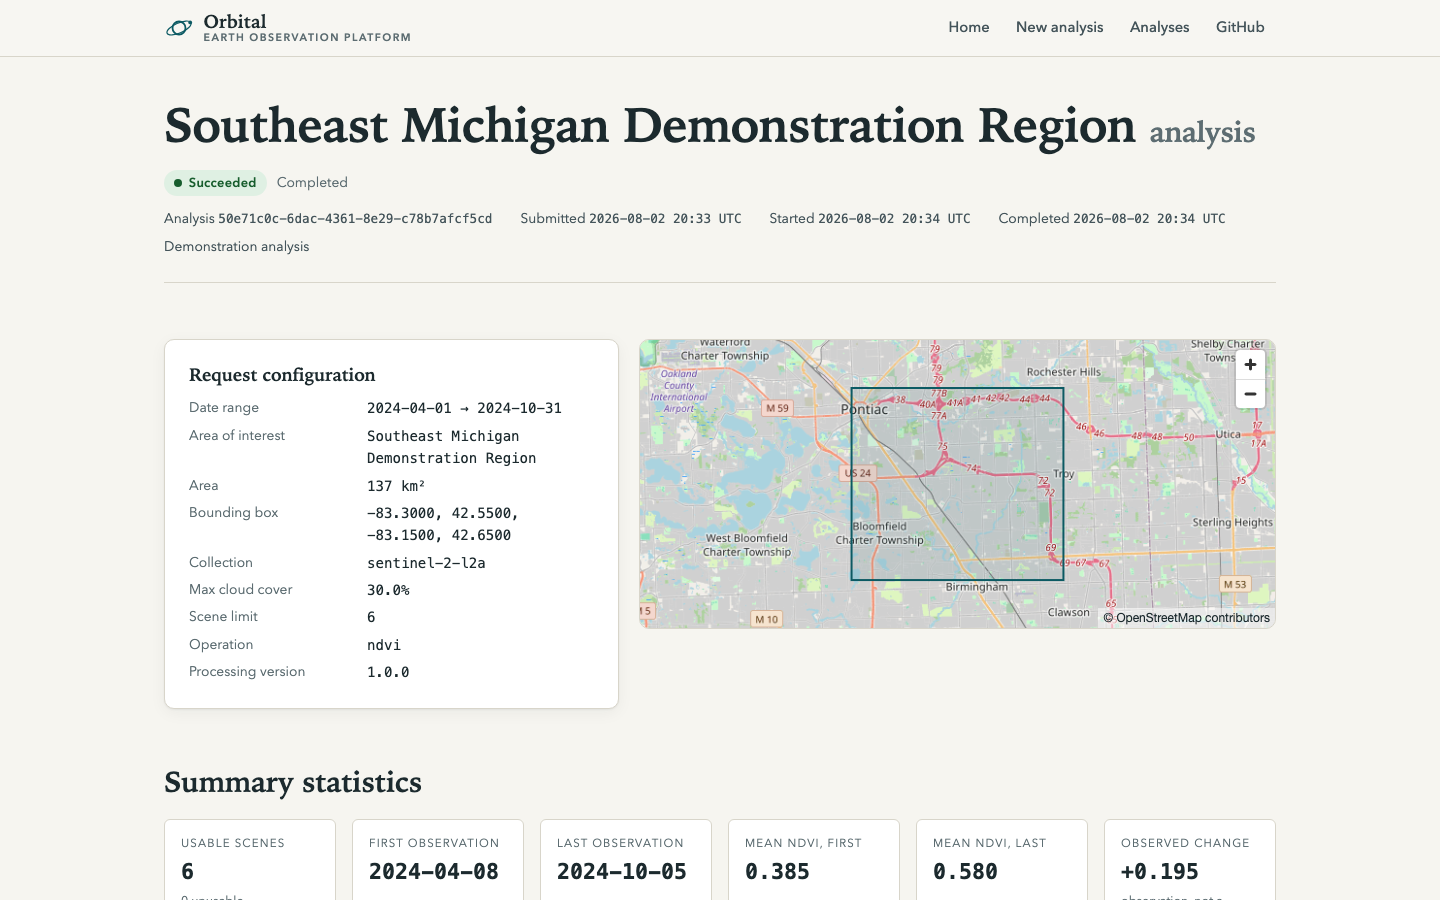
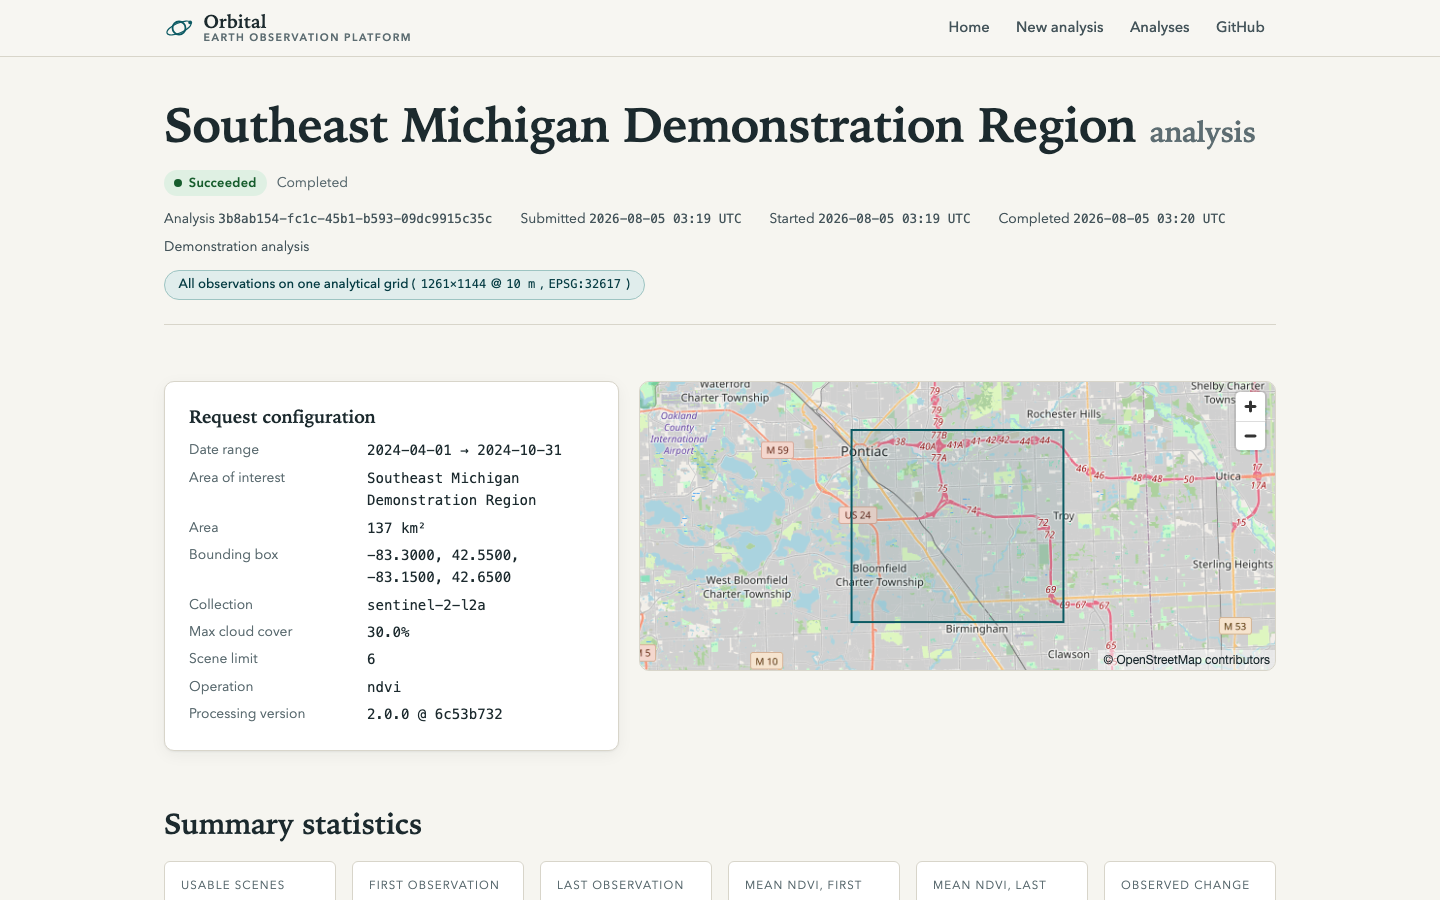
Keep synthetic satellite data out of deployed images; refresh screenshots
An audit of what actually ships found earth_observation.testing -- the
synthetic Sentinel-2 raster generator -- inside the deployed API and worker
images. No production code path imported it, but its presence contradicted the
rule that synthetic imagery is for automated tests only.

The module is now excluded from the built wheel. Container images install that
wheel (uv sync --no-editable) so it is physically absent from them, while
tests and local development use the editable install and import it from src/,
unaffected. Verified against real artifacts rather than config: the wheel
contains 18 modules and no testing.py, a rebuilt image confirms the same, and
the new CI guard was sanity-checked against the pre-fix image where it
correctly reports the violation.

Three layers enforce this: the wheel exclusion, tests that build the wheel and
inspect it (also grepping production sources for fixture imports and copied
builders), and a CI step that inspects the built images.

Also confirmed clean during the audit: no test fixtures in the Next.js
production bundle, no mock or fallback data anywhere in shipped frontend code,
and data/ (the committed demo bundle) is never copied into an image -- deployed
environments process live imagery via seed-demo.

README screenshots regenerated from the deployed Azure site.

Claude-Session: https://claude.ai/code/session_01LvJH3amry1uS9pqAgbjr28

diff --git a/tests/test_no_synthetic_data_in_production.py b/tests/test_no_synthetic_data_in_production.py
@@ -1,0 +1,136 @@
+"""Assert that synthetic satellite data cannot reach a deployed environment.
+
+The platform's rule is that synthetic imagery is permitted in automated tests
+ONLY — never in the running application. ``earth_observation.testing``
+generates fake Sentinel-2-like rasters, so it must not be present in the
+artifacts that get deployed.
+
+Enforcement has three layers:
+
+1. The wheel excludes ``testing.py`` (``packages/earth_observation/pyproject.toml``).
+   Container images build with ``uv sync --no-editable``, so they install that
+   wheel and the module is physically absent from them.
+2. These tests assert the exclusion is configured and that no production module
+   imports the fixtures.
+3. The CI ``docker`` job greps the built images (see ``.github/workflows/ci.yml``).
+
+Tests import the module straight from ``src/`` via the editable dev install, so
+excluding it from the wheel costs the test suite nothing.
+"""
+
+from __future__ import annotations
+
+import ast
+import glob
+import shutil
+import subprocess
+import tempfile
+import tomllib
+import zipfile
+from pathlib import Path
+
+import pytest
+
+REPO_ROOT = Path(__file__).resolve().parents[1]
+SCIENCE_PKG = REPO_ROOT / "packages" / "earth_observation"
+
+#: Modules that ship to production. Anything importable here must be real.
+PRODUCTION_SOURCE_DIRS = [
+    SCIENCE_PKG / "src",
+    REPO_ROOT / "packages" / "platform_core" / "src",
+    REPO_ROOT / "apps" / "api" / "src",
+    REPO_ROOT / "apps" / "worker" / "src",
+]
+
+#: Names that only ever belong to synthetic-fixture code.
+SYNTHETIC_SYMBOLS = (
+    "build_synthetic_scene",
+    "build_adjacent_granules",
+    "make_file_candidate",
+    "make_metadata_candidate",
+    "write_raster",
+)
+
+
+def test_wheel_excludes_the_synthetic_data_module() -> None:
+    """The build config must exclude the fixture generator from the wheel."""
+    config = tomllib.loads((SCIENCE_PKG / "pyproject.toml").read_text())
+    excluded = config["tool"]["hatch"]["build"]["targets"]["wheel"].get("exclude", [])
+    assert "src/earth_observation/testing.py" in excluded, (
+        "earth_observation.testing generates synthetic satellite rasters and must "
+        "be excluded from the wheel so it never ships to a deployed environment."
+    )
+
+
+def test_built_wheel_contains_no_synthetic_data_module() -> None:
+    """Actually build the wheel and inspect it — config can lie, artifacts cannot."""
+    uv = shutil.which("uv")
+    if uv is None:
+        pytest.skip("uv is not on PATH; the wheel-content check needs it")
+    with tempfile.TemporaryDirectory() as out:
+        result = subprocess.run(
+            [uv, "build", "--package", "earth-observation", "--wheel", "--out-dir", out],
+            cwd=REPO_ROOT,
+            capture_output=True,
+            text=True,
+            check=False,  # handled below so the failure message is useful
+        )
+        if result.returncode != 0:
+            pytest.fail(f"uv build failed:\n{result.stderr[-500:]}")
+        wheels = glob.glob(f"{out}/*.whl")
+        assert wheels, "no wheel produced"
+        names = zipfile.ZipFile(wheels[0]).namelist()
+    offenders = [n for n in names if "testing" in n]
+    assert not offenders, f"Synthetic-data module leaked into the distributable wheel: {offenders}"
+
+
+def _iter_production_modules():
+    for root in PRODUCTION_SOURCE_DIRS:
+        for path in root.rglob("*.py"):
+            if path.name == "testing.py":
+                continue  # the fixture module itself, excluded from the wheel
+            yield path
+
+
+def test_no_production_module_imports_the_fixtures() -> None:
+    """A production import of the fixtures would defeat the wheel exclusion."""
+    offenders: list[str] = []
+    for path in _iter_production_modules():
+        tree = ast.parse(path.read_text(), filename=str(path))
+        for node in ast.walk(tree):
+            if isinstance(node, ast.ImportFrom) and node.module:
+                if node.module.endswith("earth_observation.testing"):
+                    offenders.append(f"{path.relative_to(REPO_ROOT)}: {node.module}")
+            elif isinstance(node, ast.Import):
+                for alias in node.names:
+                    if alias.name.endswith("earth_observation.testing"):
+                        offenders.append(f"{path.relative_to(REPO_ROOT)}: {alias.name}")
+    assert not offenders, "Production code imports synthetic fixtures: " + ", ".join(offenders)
+
+
+def test_no_production_module_references_synthetic_builders() -> None:
+    """Catch a copy-pasted fixture builder even without the import."""
+    offenders: list[str] = []
+    for path in _iter_production_modules():
+        text = path.read_text()
+        for symbol in SYNTHETIC_SYMBOLS:
+            if symbol in text:
+                offenders.append(f"{path.relative_to(REPO_ROOT)}: {symbol}")
+    assert not offenders, "Production code references synthetic-fixture builders: " + ", ".join(
+        offenders
+    )
+
+
+def test_demo_bundle_is_not_copied_into_container_images() -> None:
+    """The committed demo bundle is real derived data, but deployments must
+    process live imagery rather than import a precomputed bundle."""
+    for dockerfile in (
+        REPO_ROOT / "apps" / "api" / "Dockerfile",
+        REPO_ROOT / "apps" / "worker" / "Dockerfile",
+    ):
+        copies = [
+            line
+            for line in dockerfile.read_text().splitlines()
+            if line.startswith("COPY") and " data" in line
+        ]
+        assert not copies, f"{dockerfile.name} copies data/ into the image: {copies}"

diff --git a/IMPLEMENTATION_STATUS.md b/IMPLEMENTATION_STATUS.md
@@ -113,6 +113,31 @@ earliest-to-latest difference was not a valid measurement.
       environment always has a completed demonstration analysis for the
       landing-page link. Previously `demo_analysis_id` was null in Azure.
 
+## No-synthetic-data enforcement (2026-08-04)
+
+An audit of what actually ships found that
+`earth_observation.testing` — the synthetic Sentinel-2 raster generator — was
+present inside the deployed API and worker images. No production code path
+imported it, but its presence contradicted the platform's own rule that
+synthetic imagery is permitted in automated tests only.
+
+- [x] Excluded `testing.py` from the built wheel. Images install that wheel
+      (`uv sync --no-editable`) so the module is physically absent; tests use
+      the editable install and import it from `src/`, unaffected.
+- [x] Verified against real artifacts: the built wheel contains 18 modules and
+      no `testing.py`, and a rebuilt image confirms the same. The CI guard was
+      sanity-checked by running it against the pre-fix image, where it
+      correctly reports the violation.
+- [x] Three enforcement layers: wheel exclusion,
+      `tests/test_no_synthetic_data_in_production.py` (builds and inspects the
+      wheel, and greps production sources for fixture imports/builders), and a
+      CI step that inspects the built images.
+- [x] Also confirmed clean: no test fixtures in the Next.js production bundle,
+      no mock/fallback data anywhere in shipped frontend code, and `data/`
+      (the demo bundle) is never copied into an image — deployed environments
+      process live imagery.
+- [x] README screenshots regenerated from the deployed Azure site.
+
 ## Known limitations (accepted for MVP, documented)
 
 - Submission rate limiting is in-memory per replica (docs/security.md).

diff --git a/docs/security.md b/docs/security.md
@@ -79,6 +79,16 @@ beyond platform defaults, and formal compliance regimes.
   hand-crafted request cannot obtain a large arbitrary AOI. Combined with the
   submission throttle and scene limits, this bounds what an anonymous caller
   can make the platform spend.
+- **No synthetic data in deployed environments.** Synthetic satellite rasters
+  exist only for automated tests. `earth_observation.testing` (the generator)
+  is excluded from the built wheel, so container images — which install that
+  wheel via `uv sync --no-editable` — do not contain it; tests import it from
+  source through the editable dev install and are unaffected. The committed
+  demonstration bundle under `data/` is likewise never copied into an image:
+  deployed environments run `seed-demo`, which processes live Sentinel-2
+  imagery. Three layers enforce this: the wheel exclusion, the tests in
+  `tests/test_no_synthetic_data_in_production.py` (which build the wheel and
+  inspect it), and a CI step that greps the built images.
 - **Kill switches:** `DEMO_MODE` restricts submissions to predefined regions
   with tighter limits; `OEOP_SUBMISSIONS_ENABLED=false` disables public
   submissions entirely ([runbook](operations.md#disable-public-submissions)).
